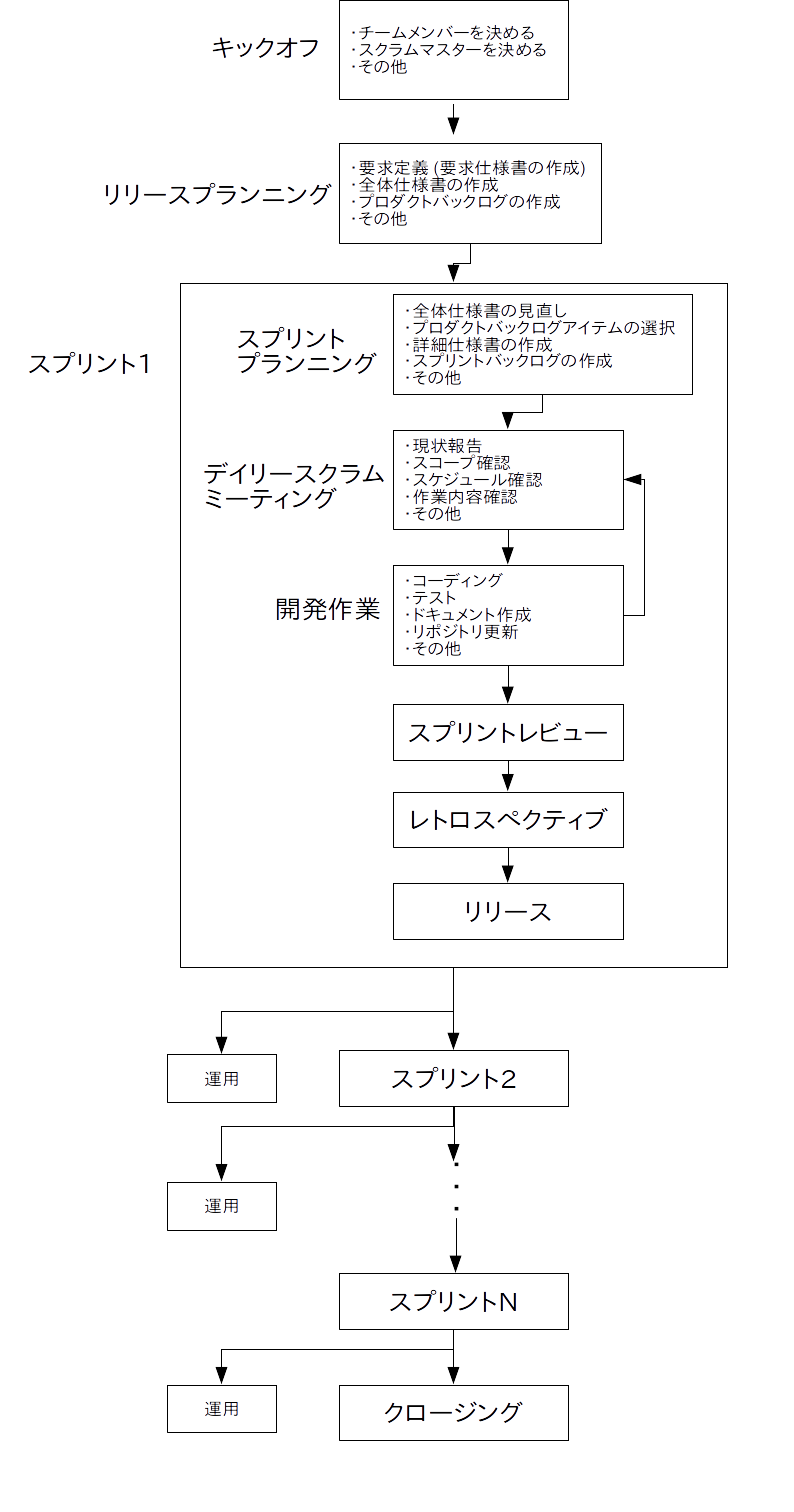
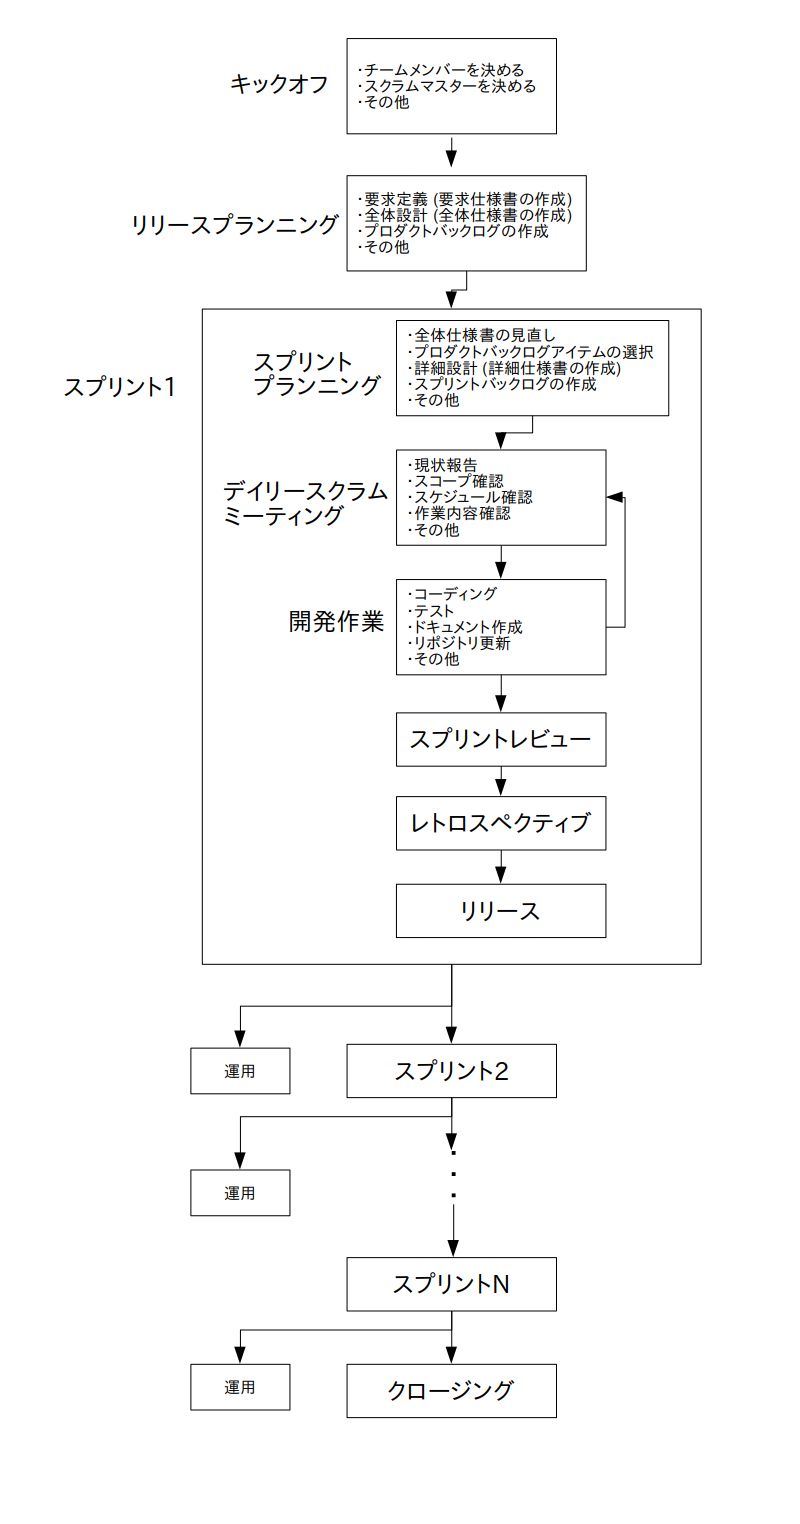
scrum更新

diff --git a/docs/activity/scrum/text02/page02.html b/docs/activity/scrum/text02/page02.html
@@ -30,8 +30,8 @@
 </p>
 
 <ul>
-<li>要求定義</li>
-<li>全体仕様書の作成</li>
+<li>要求定義 (要求仕様書の作成)</li>
+<li>全体設計 (全体仕様書の作成)</li>
 <li>プロダクトバックログの作成</li>
 <li>その他</li>
 </ul>
@@ -43,7 +43,7 @@
 <b>要求定義</b>はソフトウェア開発の上流工程であり、ユーザーや顧客がソフトウェアに何を求めているのかを打ち合わせ等で明確にしていく作業の事です。
 </p>
 <p>
-要求定義の手法は色々あって組織やチームが好きに決めても良いのですが、<b>要求仕様書</b>というドキュメントを作成することが多いです。
+要求定義の手法は色々あって組織やチームが好きに決めても良いのですが、要求仕様書というドキュメントを作成することが多いです。
 <br>
 要求仕様書の書き方にも特に決まり事はないのですが、最低限でも以下の項目は含めた方が良いと思います。
 </p>
@@ -67,7 +67,7 @@
 </p>
 
 <p>
-次の<b>全体仕様書</b>はユーザーの要求定義を元に作成する全体の仕様書です。
+次の<b>全体設計</b>では全体仕様書を作成します。全体仕様書はユーザーの要求定義を元に作成する全体の仕様書です。 
 </p>
 <p>
 全体仕様書の作り方も組織やチームが好きに決めても良いのですが、やはり適当に作ると後で困るので気をつけましょう。
@@ -76,7 +76,7 @@
 </p>
 
 <p>
-次の<b>プロダクトバックログ</b>(Product Backlog)は全体の大まかな作業内容一覧(タスクリスト)のことです。
+次に<b>プロダクトバックログ(Product Backlog)の作成</b>をします。プロダクトバックログは全体の大まかな作業内容一覧(タスクリスト)のことです。
 </p>
 <p>
 全体仕様書を元に必要なタスクを大まかにリストアップした後、依存関係や重要度や難易度などから優先順位を決めてプロダクトバックログを作成します。

diff --git a/docs/activity/scrum/index.html b/docs/activity/scrum/index.html
@@ -31,7 +31,7 @@
 <li><a href="../wbs/">アクティビティ: WBS とカンバンによるスケジュール管理</a></li>
 </ol>
 <p>
-最終更新日: 2019/2/4
+最終更新日: 2019/2/5
 </p>
 </div>
 
